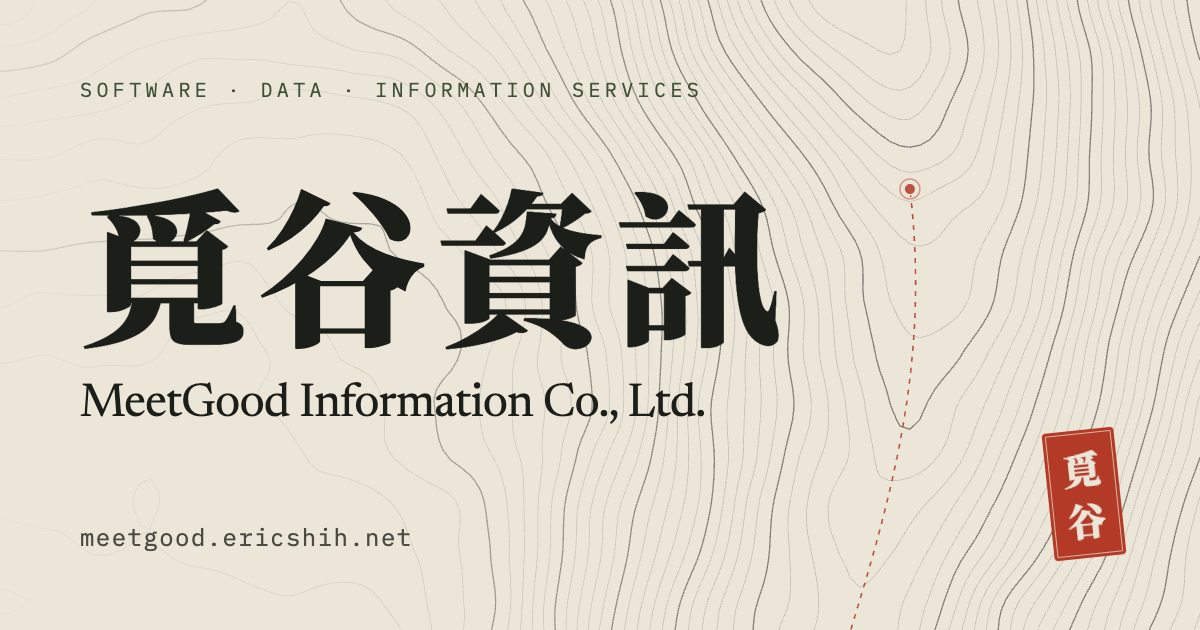
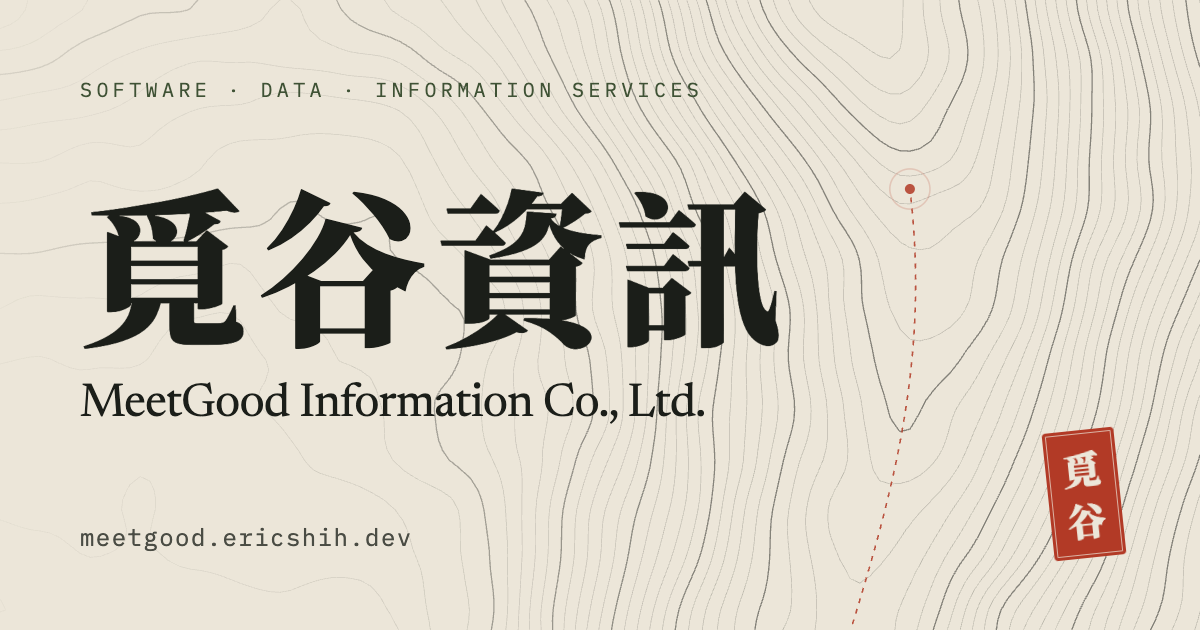
Move site to meetgood.ericshih.dev
Keep meetgood.ericshih.net bound so a Cloudflare Redirect Rule can
301 it to the new domain.

diff --git a/scripts/prerender.ts b/scripts/prerender.ts
@@ -2,7 +2,7 @@
 import { mkdirSync, writeFileSync } from "node:fs";
 import { renderHome, renderNotFound } from "../src/render.ts";
 
-const SITE = "https://meetgood.ericshih.net";
+const SITE = "https://meetgood.ericshih.dev";
 const out = new URL("../public/", import.meta.url);
 
 // 依 Google 規範：每個 <url> 都列出所有語言版本，包含自己。

diff --git a/scripts/og/og.html b/scripts/og/og.html
@@ -26,7 +26,7 @@
 		<h1 class="og__title">覓谷資訊</h1>
 		<p class="og__en">MeetGood Information Co., Ltd.</p>
 	</div>
-	<p class="og__url">meetgood.ericshih.net</p>
+	<p class="og__url">meetgood.ericshih.dev</p>
 	<span class="seal seal--lg"><span>覓</span><span>谷</span></span>
 </div>
 <script src="../../public/site.js"></script>

diff --git a/cloudflare.config.ts b/cloudflare.config.ts
@@ -4,7 +4,7 @@ export default defineConfig({
 	worker: {
 		name: "meetgood-site",
 		compatibilityDate: "2026-10-06",
-		domains: ["meetgood.ericshih.net"],
+		domains: ["meetgood.ericshih.dev", "meetgood.ericshih.net"],
 		assets: {
 			notFoundHandling: "404-page",
 		},
